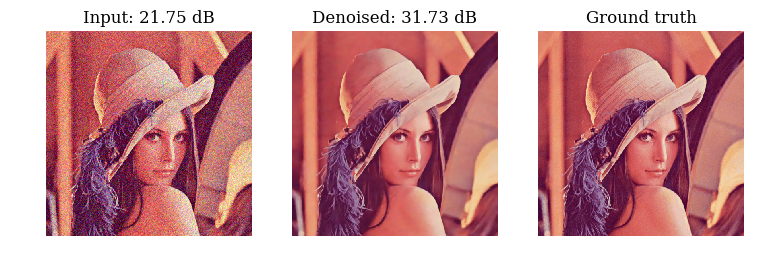
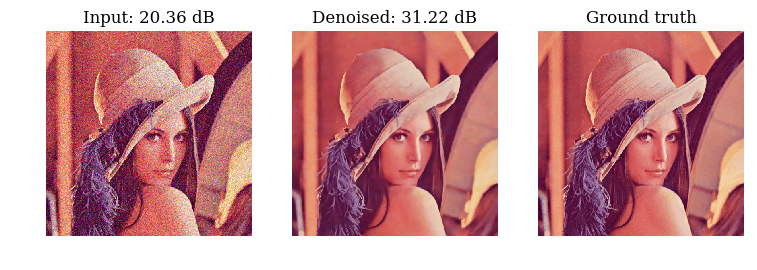
Fixed Gaussian std=25 for the figures, not random[0,25]

Changed region(s): [[0.0608, 0.0296, 0.3342, 0.8889], [0.5469, 0.0296, 0.6077, 0.0889]]

diff --git a/src/datasets.py b/src/datasets.py
@@ -131,7 +131,10 @@ class NoisyDataset(AbstractDataset):
             
         # Normal distribution (default)
         else:
-            std = np.random.uniform(0, self.noise_param)
+            if self.seed:
+                std = self.noise_param
+            else:
+                std = np.random.uniform(0, self.noise_param)
             noise = np.random.normal(0, std, (h, w, c))
 
             # Add noise and clip

diff --git a/ReadMe.md b/ReadMe.md
@@ -117,9 +117,9 @@ Model was only trained for 1000 epochs with a train/valid split of 2000/400 on a
     <th colspan=9>Gaussian noise (σ = 25)</td>
   </tr>
   <tr align="center">
-    <td colspan=2>Noisy input (21.75 dB)</td>
-    <td colspan=2>Denoised (31.73 dB)</td>
-    <td colspan=2>Clean targets (31.70 dB)</td>
+    <td colspan=2>Noisy input (20.36 dB)</td>
+    <td colspan=2>Denoised (31.22 dB)</td>
+    <td colspan=2>Clean targets (32.23 dB)</td>
     <td colspan=2>Ground truth</td>
   </tr>
   <tr align="center">
@@ -129,9 +129,9 @@ Model was only trained for 1000 epochs with a train/valid split of 2000/400 on a
     <td colspan=2><img src="figures/lenna.png"></td>
   </tr>  
   <tr align="center">
-    <td colspan=2>Noisy input (27.15 dB)</td>
-    <td colspan=2>Denoised (35.97 dB)</td>
-    <td colspan=2>Clean targets (35.94 dB)</td>
+    <td colspan=2>Noisy input (20.34 dB)</td>
+    <td colspan=2>Denoised (32.68 dB)</td>
+    <td colspan=2>Clean targets (32.49 dB)</td>
     <td colspan=2>Ground truth</td>
   </tr>
   <tr align="center">
